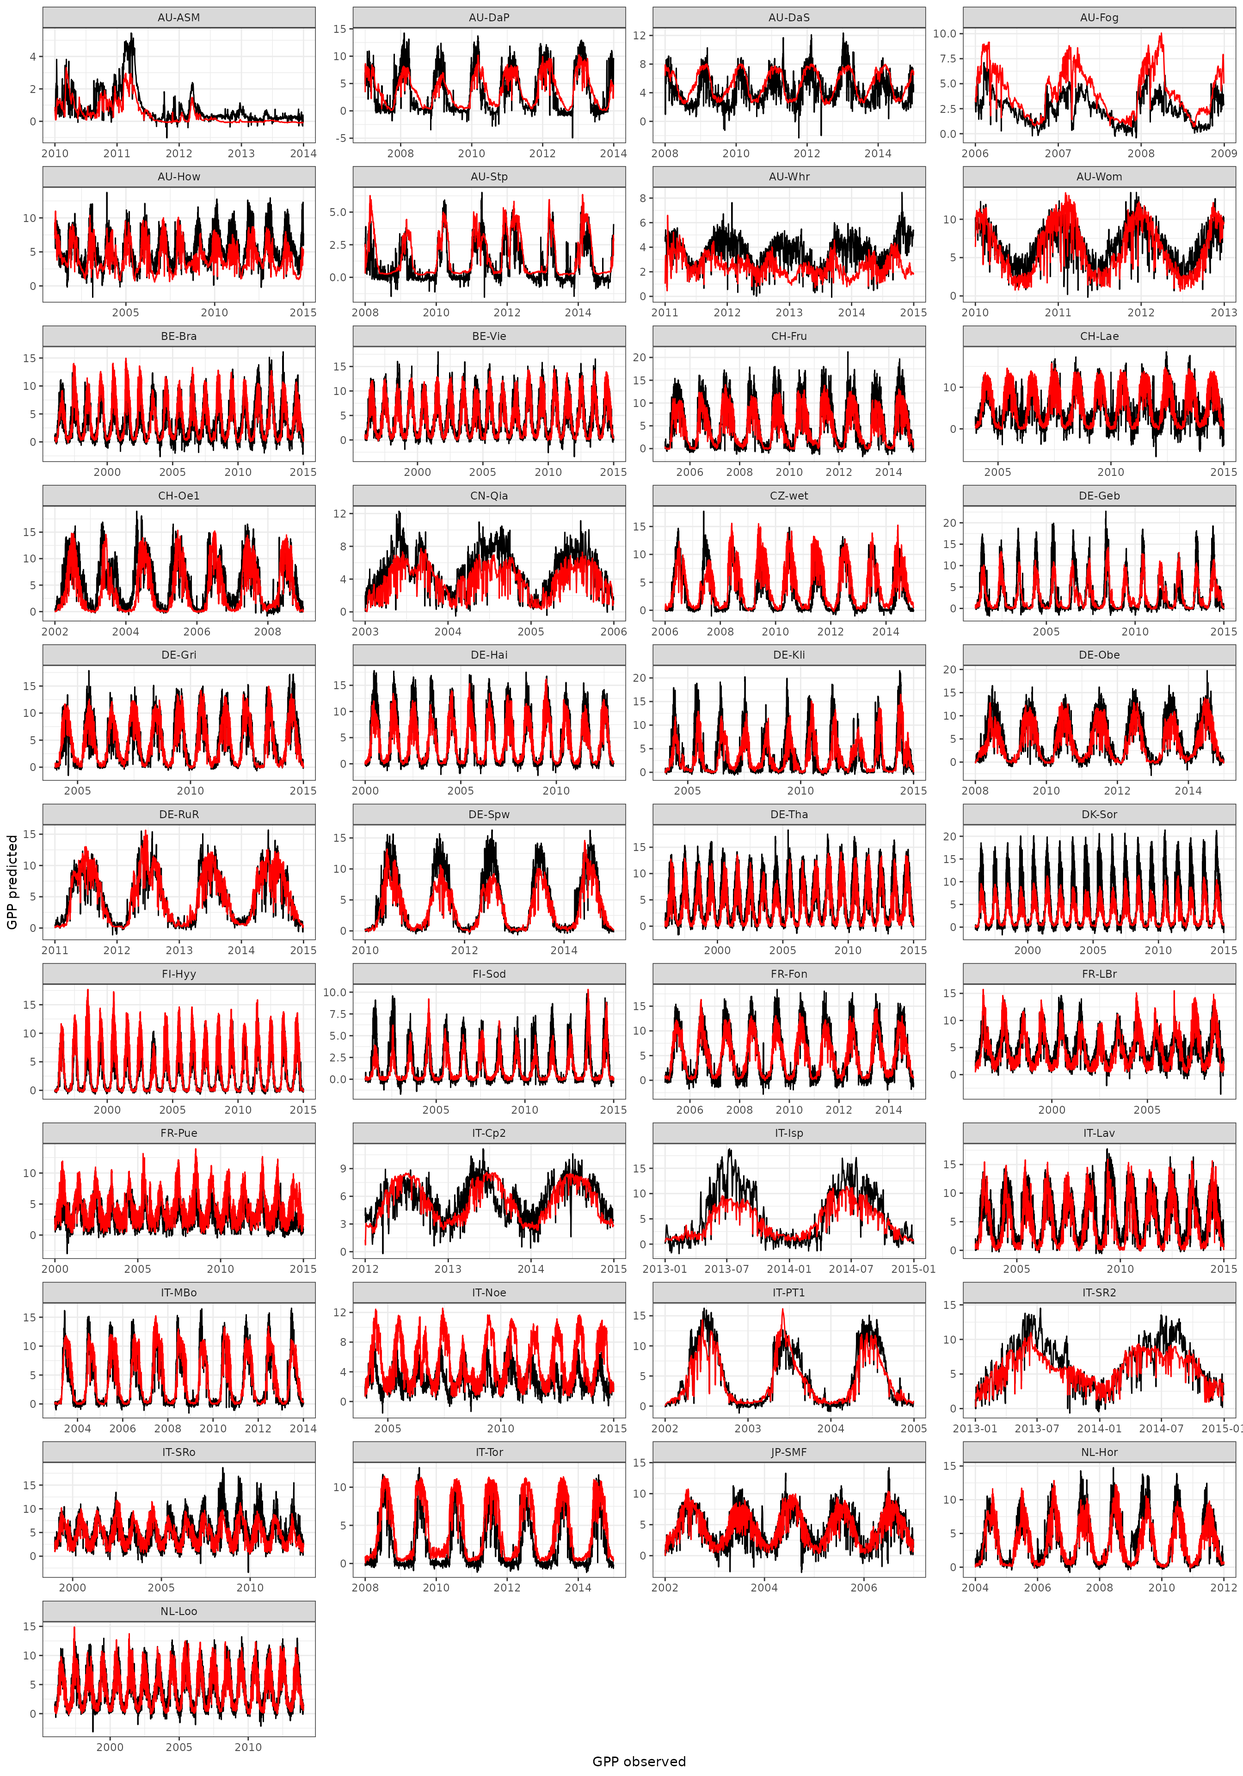
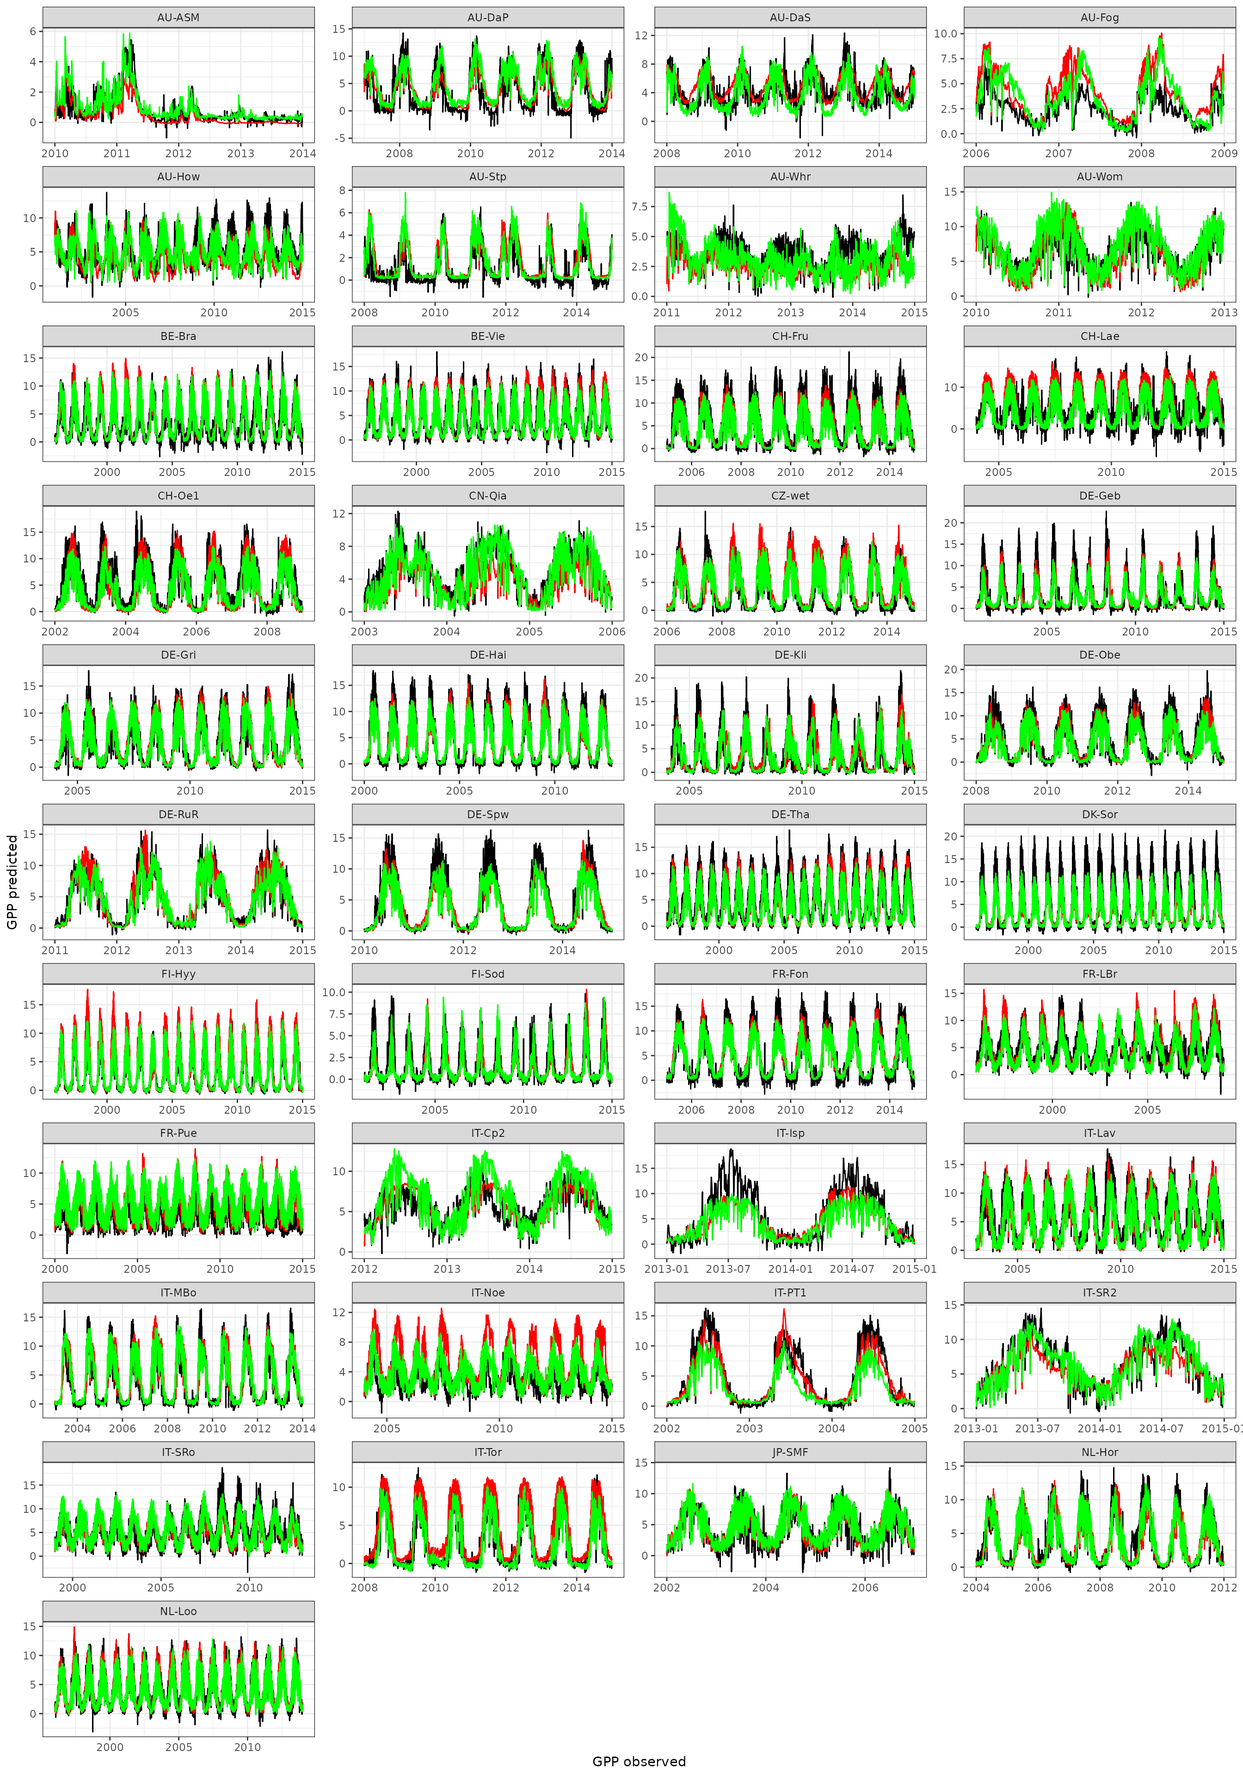
Deploying to gh-pages from @ khufkens/torching_series@43e23326abf91e43806db89b97041d2a5c9fe38a 🚀

diff --git a/articles/01_results.html b/articles/01_results.html
@@ -96,58 +96,79 @@ Hufkens</h4>
 
     
     
-<p>Summary results / stats… on a 20 epoch run…</p>
+<blockquote>
+<p>Summary results / stats… 20 epochs for the LSTM (to be updated), 150
+epochs FCN.</p>
+</blockquote>
 <div class="sourceCode" id="cb1"><pre class="downlit sourceCode r">
 <code class="sourceCode R"><span><span class="co"># read in the modelled data</span></span>
-<span><span class="va">df</span> <span class="op">&lt;-</span> <span class="fu"><a href="https://rdrr.io/r/base/readRDS.html" class="external-link">readRDS</a></span><span class="op">(</span><span class="fu">here</span><span class="fu">::</span><span class="fu"><a href="https://here.r-lib.org//reference/here.html" class="external-link">here</a></span><span class="op">(</span><span class="st">"data/leave_site_out_output.rds"</span><span class="op">)</span><span class="op">)</span></span>
+<span><span class="va">df_lstm</span> <span class="op">&lt;-</span> <span class="fu"><a href="https://rdrr.io/r/base/readRDS.html" class="external-link">readRDS</a></span><span class="op">(</span><span class="fu">here</span><span class="fu">::</span><span class="fu"><a href="https://here.r-lib.org//reference/here.html" class="external-link">here</a></span><span class="op">(</span><span class="st">"data/leave_site_out_output_lstm.rds"</span><span class="op">)</span><span class="op">)</span> <span class="op">|&gt;</span></span>
+<span>  <span class="fu">rename</span><span class="op">(</span></span>
+<span>    <span class="st">"GPP_pred_lstm"</span> <span class="op">=</span> <span class="st">"GPP_pred"</span></span>
+<span>  <span class="op">)</span></span>
+<span><span class="va">df_fcn</span> <span class="op">&lt;-</span> <span class="fu"><a href="https://rdrr.io/r/base/readRDS.html" class="external-link">readRDS</a></span><span class="op">(</span><span class="fu">here</span><span class="fu">::</span><span class="fu"><a href="https://here.r-lib.org//reference/here.html" class="external-link">here</a></span><span class="op">(</span><span class="st">"data/leave_site_out_output_fcn.rds"</span><span class="op">)</span><span class="op">)</span> <span class="op">|&gt;</span></span>
+<span>  <span class="fu">rename</span><span class="op">(</span></span>
+<span>    <span class="st">"GPP_pred_fcn"</span> <span class="op">=</span> <span class="st">"GPP_pred"</span></span>
+<span>  <span class="op">)</span></span>
 <span></span>
 <span><span class="co"># read in the original data</span></span>
 <span><span class="va">orig</span> <span class="op">&lt;-</span> <span class="fu"><a href="https://rdrr.io/r/base/readRDS.html" class="external-link">readRDS</a></span><span class="op">(</span><span class="fu">here</span><span class="fu">::</span><span class="fu"><a href="https://here.r-lib.org//reference/here.html" class="external-link">here</a></span><span class="op">(</span><span class="st">"data/df_imputed.rds"</span><span class="op">)</span><span class="op">)</span></span>
 <span></span>
 <span><span class="co"># join data</span></span>
-<span><span class="va">df</span> <span class="op">&lt;-</span> <span class="fu">left_join</span><span class="op">(</span><span class="va">df</span>, <span class="va">orig</span><span class="op">)</span> <span class="op">|&gt;</span></span>
+<span><span class="va">df</span> <span class="op">&lt;-</span> <span class="fu">left_join</span><span class="op">(</span><span class="va">df_lstm</span>, <span class="va">df_fcn</span><span class="op">)</span></span></code></pre></div>
+<pre><code><span><span class="co">## Joining with `by = join_by(sitename, date)`</span></span></code></pre>
+<div class="sourceCode" id="cb3"><pre class="downlit sourceCode r">
+<code class="sourceCode R"><span><span class="va">df</span> <span class="op">&lt;-</span> <span class="fu">left_join</span><span class="op">(</span><span class="va">df</span>, <span class="va">orig</span><span class="op">)</span> <span class="op">|&gt;</span></span>
 <span>  <span class="fu">mutate</span><span class="op">(</span></span>
 <span>    date <span class="op">=</span> <span class="fu"><a href="https://rdrr.io/r/base/as.Date.html" class="external-link">as.Date</a></span><span class="op">(</span><span class="va">date</span><span class="op">)</span></span>
 <span>  <span class="op">)</span></span></code></pre></div>
 <pre><code><span><span class="co">## Joining with `by = join_by(sitename, date)`</span></span></code></pre>
-<div class="sourceCode" id="cb3"><pre class="downlit sourceCode r">
+<div class="sourceCode" id="cb5"><pre class="downlit sourceCode r">
 <code class="sourceCode R"><span><span class="co"># R squared and RMSE global</span></span>
 <span><span class="va">statistics_global</span> <span class="op">&lt;-</span> <span class="va">df</span> <span class="op">|&gt;</span></span>
 <span>  <span class="fu">summarize</span><span class="op">(</span></span>
-<span>    R2 <span class="op">=</span> <span class="fu"><a href="https://rdrr.io/r/base/summary.html" class="external-link">summary</a></span><span class="op">(</span><span class="fu"><a href="https://rdrr.io/r/stats/lm.html" class="external-link">lm</a></span><span class="op">(</span><span class="va">GPP_pred</span> <span class="op">~</span> <span class="va">GPP_NT_VUT_REF</span><span class="op">)</span><span class="op">)</span><span class="op">$</span><span class="va">r.squared</span>,</span>
-<span>    RMSE <span class="op">=</span> <span class="fu"><a href="https://rdrr.io/r/base/MathFun.html" class="external-link">sqrt</a></span><span class="op">(</span><span class="fu"><a href="https://rdrr.io/r/base/mean.html" class="external-link">mean</a></span><span class="op">(</span><span class="op">(</span><span class="va">GPP_pred</span> <span class="op">-</span> <span class="va">GPP_NT_VUT_REF</span><span class="op">)</span><span class="op">^</span><span class="fl">2</span>, na.rm <span class="op">=</span> <span class="cn">TRUE</span><span class="op">)</span><span class="op">)</span>,</span>
-<span>    MAE <span class="op">=</span> <span class="fu"><a href="https://rdrr.io/r/base/MathFun.html" class="external-link">abs</a></span><span class="op">(</span><span class="fu"><a href="https://rdrr.io/r/base/mean.html" class="external-link">mean</a></span><span class="op">(</span><span class="op">(</span><span class="va">GPP_pred</span> <span class="op">-</span> <span class="va">GPP_NT_VUT_REF</span><span class="op">)</span>, na.rm <span class="op">=</span> <span class="cn">TRUE</span><span class="op">)</span><span class="op">)</span></span>
+<span>    R2_lstm <span class="op">=</span> <span class="fu"><a href="https://rdrr.io/r/base/summary.html" class="external-link">summary</a></span><span class="op">(</span><span class="fu"><a href="https://rdrr.io/r/stats/lm.html" class="external-link">lm</a></span><span class="op">(</span><span class="va">GPP_pred_lstm</span> <span class="op">~</span> <span class="va">GPP_NT_VUT_REF</span><span class="op">)</span><span class="op">)</span><span class="op">$</span><span class="va">r.squared</span>,</span>
+<span>    RMSE_lstm <span class="op">=</span> <span class="fu"><a href="https://rdrr.io/r/base/MathFun.html" class="external-link">sqrt</a></span><span class="op">(</span><span class="fu"><a href="https://rdrr.io/r/base/mean.html" class="external-link">mean</a></span><span class="op">(</span><span class="op">(</span><span class="va">GPP_pred_lstm</span> <span class="op">-</span> <span class="va">GPP_NT_VUT_REF</span><span class="op">)</span><span class="op">^</span><span class="fl">2</span>, na.rm <span class="op">=</span> <span class="cn">TRUE</span><span class="op">)</span><span class="op">)</span>,</span>
+<span>    MAE_lstm <span class="op">=</span> <span class="fu"><a href="https://rdrr.io/r/base/MathFun.html" class="external-link">abs</a></span><span class="op">(</span><span class="fu"><a href="https://rdrr.io/r/base/mean.html" class="external-link">mean</a></span><span class="op">(</span><span class="op">(</span><span class="va">GPP_pred_lstm</span> <span class="op">-</span> <span class="va">GPP_NT_VUT_REF</span><span class="op">)</span>, na.rm <span class="op">=</span> <span class="cn">TRUE</span><span class="op">)</span><span class="op">)</span>,</span>
+<span>    R2_fcn <span class="op">=</span> <span class="fu"><a href="https://rdrr.io/r/base/summary.html" class="external-link">summary</a></span><span class="op">(</span><span class="fu"><a href="https://rdrr.io/r/stats/lm.html" class="external-link">lm</a></span><span class="op">(</span><span class="va">GPP_pred_fcn</span> <span class="op">~</span> <span class="va">GPP_NT_VUT_REF</span><span class="op">)</span><span class="op">)</span><span class="op">$</span><span class="va">r.squared</span>,</span>
+<span>    RMSE_fcn <span class="op">=</span> <span class="fu"><a href="https://rdrr.io/r/base/MathFun.html" class="external-link">sqrt</a></span><span class="op">(</span><span class="fu"><a href="https://rdrr.io/r/base/mean.html" class="external-link">mean</a></span><span class="op">(</span><span class="op">(</span><span class="va">GPP_pred_fcn</span> <span class="op">-</span> <span class="va">GPP_NT_VUT_REF</span><span class="op">)</span><span class="op">^</span><span class="fl">2</span>, na.rm <span class="op">=</span> <span class="cn">TRUE</span><span class="op">)</span><span class="op">)</span>,</span>
+<span>    MAE_fcn <span class="op">=</span> <span class="fu"><a href="https://rdrr.io/r/base/MathFun.html" class="external-link">abs</a></span><span class="op">(</span><span class="fu"><a href="https://rdrr.io/r/base/mean.html" class="external-link">mean</a></span><span class="op">(</span><span class="op">(</span><span class="va">GPP_pred_fcn</span> <span class="op">-</span> <span class="va">GPP_NT_VUT_REF</span><span class="op">)</span>, na.rm <span class="op">=</span> <span class="cn">TRUE</span><span class="op">)</span><span class="op">)</span></span>
 <span>  <span class="op">)</span></span>
 <span></span>
 <span><span class="fu"><a href="https://rdrr.io/r/base/print.html" class="external-link">print</a></span><span class="op">(</span><span class="va">statistics_global</span><span class="op">)</span></span></code></pre></div>
-<pre><code><span><span class="co">##          R2     RMSE        MAE</span></span>
-<span><span class="co">## 1 0.7043553 2.183057 0.01363283</span></span></code></pre>
-<div class="sourceCode" id="cb5"><pre class="downlit sourceCode r">
+<pre><code><span><span class="co">##     R2_lstm RMSE_lstm   MAE_lstm    R2_fcn RMSE_fcn  MAE_fcn</span></span>
+<span><span class="co">## 1 0.7043553  2.183057 0.01363277 0.7396445 2.030596 0.173568</span></span></code></pre>
+<div class="sourceCode" id="cb7"><pre class="downlit sourceCode r">
 <code class="sourceCode R"><span><span class="co"># R squared and RMSE by site</span></span>
 <span><span class="va">statistics_sites</span> <span class="op">&lt;-</span> <span class="va">df</span> <span class="op">|&gt;</span></span>
 <span>  <span class="fu">group_by</span><span class="op">(</span><span class="va">sitename</span><span class="op">)</span> <span class="op">|&gt;</span></span>
 <span>  <span class="fu">summarize</span><span class="op">(</span></span>
-<span>    R2 <span class="op">=</span> <span class="fu"><a href="https://rdrr.io/r/base/summary.html" class="external-link">summary</a></span><span class="op">(</span><span class="fu"><a href="https://rdrr.io/r/stats/lm.html" class="external-link">lm</a></span><span class="op">(</span><span class="va">GPP_pred</span> <span class="op">~</span> <span class="va">GPP_NT_VUT_REF</span><span class="op">)</span><span class="op">)</span><span class="op">$</span><span class="va">r.squared</span>,</span>
-<span>    RMSE <span class="op">=</span> <span class="fu"><a href="https://rdrr.io/r/base/MathFun.html" class="external-link">sqrt</a></span><span class="op">(</span><span class="fu"><a href="https://rdrr.io/r/base/mean.html" class="external-link">mean</a></span><span class="op">(</span><span class="op">(</span><span class="va">GPP_pred</span> <span class="op">-</span> <span class="va">GPP_NT_VUT_REF</span><span class="op">)</span><span class="op">^</span><span class="fl">2</span>, na.rm <span class="op">=</span> <span class="cn">TRUE</span><span class="op">)</span><span class="op">)</span>,</span>
-<span>    MAE <span class="op">=</span> <span class="fu"><a href="https://rdrr.io/r/base/MathFun.html" class="external-link">abs</a></span><span class="op">(</span><span class="fu"><a href="https://rdrr.io/r/base/mean.html" class="external-link">mean</a></span><span class="op">(</span><span class="op">(</span><span class="va">GPP_pred</span> <span class="op">-</span> <span class="va">GPP_NT_VUT_REF</span><span class="op">)</span>, na.rm <span class="op">=</span> <span class="cn">TRUE</span><span class="op">)</span><span class="op">)</span></span>
+<span>    R2_lstm <span class="op">=</span> <span class="fu"><a href="https://rdrr.io/r/base/summary.html" class="external-link">summary</a></span><span class="op">(</span><span class="fu"><a href="https://rdrr.io/r/stats/lm.html" class="external-link">lm</a></span><span class="op">(</span><span class="va">GPP_pred_lstm</span> <span class="op">~</span> <span class="va">GPP_NT_VUT_REF</span><span class="op">)</span><span class="op">)</span><span class="op">$</span><span class="va">r.squared</span>,</span>
+<span>    RMSE_lstm <span class="op">=</span> <span class="fu"><a href="https://rdrr.io/r/base/MathFun.html" class="external-link">sqrt</a></span><span class="op">(</span><span class="fu"><a href="https://rdrr.io/r/base/mean.html" class="external-link">mean</a></span><span class="op">(</span><span class="op">(</span><span class="va">GPP_pred_lstm</span> <span class="op">-</span> <span class="va">GPP_NT_VUT_REF</span><span class="op">)</span><span class="op">^</span><span class="fl">2</span>, na.rm <span class="op">=</span> <span class="cn">TRUE</span><span class="op">)</span><span class="op">)</span>,</span>
+<span>    MAE_lstm <span class="op">=</span> <span class="fu"><a href="https://rdrr.io/r/base/MathFun.html" class="external-link">abs</a></span><span class="op">(</span><span class="fu"><a href="https://rdrr.io/r/base/mean.html" class="external-link">mean</a></span><span class="op">(</span><span class="op">(</span><span class="va">GPP_pred_lstm</span> <span class="op">-</span> <span class="va">GPP_NT_VUT_REF</span><span class="op">)</span>, na.rm <span class="op">=</span> <span class="cn">TRUE</span><span class="op">)</span><span class="op">)</span>,</span>
+<span>    R2_fcn <span class="op">=</span> <span class="fu"><a href="https://rdrr.io/r/base/summary.html" class="external-link">summary</a></span><span class="op">(</span><span class="fu"><a href="https://rdrr.io/r/stats/lm.html" class="external-link">lm</a></span><span class="op">(</span><span class="va">GPP_pred_fcn</span> <span class="op">~</span> <span class="va">GPP_NT_VUT_REF</span><span class="op">)</span><span class="op">)</span><span class="op">$</span><span class="va">r.squared</span>,</span>
+<span>    RMSE_fcn <span class="op">=</span> <span class="fu"><a href="https://rdrr.io/r/base/MathFun.html" class="external-link">sqrt</a></span><span class="op">(</span><span class="fu"><a href="https://rdrr.io/r/base/mean.html" class="external-link">mean</a></span><span class="op">(</span><span class="op">(</span><span class="va">GPP_pred_fcn</span> <span class="op">-</span> <span class="va">GPP_NT_VUT_REF</span><span class="op">)</span><span class="op">^</span><span class="fl">2</span>, na.rm <span class="op">=</span> <span class="cn">TRUE</span><span class="op">)</span><span class="op">)</span>,</span>
+<span>    MAE_fcn <span class="op">=</span> <span class="fu"><a href="https://rdrr.io/r/base/MathFun.html" class="external-link">abs</a></span><span class="op">(</span><span class="fu"><a href="https://rdrr.io/r/base/mean.html" class="external-link">mean</a></span><span class="op">(</span><span class="op">(</span><span class="va">GPP_pred_fcn</span> <span class="op">-</span> <span class="va">GPP_NT_VUT_REF</span><span class="op">)</span>, na.rm <span class="op">=</span> <span class="cn">TRUE</span><span class="op">)</span><span class="op">)</span></span>
 <span>  <span class="op">)</span></span>
 <span></span>
 <span><span class="fu"><a href="https://rdrr.io/r/base/print.html" class="external-link">print</a></span><span class="op">(</span><span class="va">statistics_sites</span><span class="op">)</span></span></code></pre></div>
-<pre><code><span><span class="co">## <span style="color: #949494;"># A tibble: 41 × 4</span></span></span>
-<span><span class="co">##    sitename    R2  RMSE    MAE</span></span>
-<span><span class="co">##    <span style="color: #949494; font-style: italic;">&lt;chr&gt;</span>    <span style="color: #949494; font-style: italic;">&lt;dbl&gt;</span> <span style="color: #949494; font-style: italic;">&lt;dbl&gt;</span>  <span style="color: #949494; font-style: italic;">&lt;dbl&gt;</span></span></span>
-<span><span class="co">## <span style="color: #BCBCBC;"> 1</span> AU-ASM   0.691 0.720 0.376 </span></span>
-<span><span class="co">## <span style="color: #BCBCBC;"> 2</span> AU-DaP   0.692 2.26  0.346 </span></span>
-<span><span class="co">## <span style="color: #BCBCBC;"> 3</span> AU-DaS   0.412 1.87  0.834 </span></span>
-<span><span class="co">## <span style="color: #BCBCBC;"> 4</span> AU-Fog   0.678 2.20  1.70  </span></span>
-<span><span class="co">## <span style="color: #BCBCBC;"> 5</span> AU-How   0.552 1.98  1.09  </span></span>
-<span><span class="co">## <span style="color: #BCBCBC;"> 6</span> AU-Stp   0.648 1.11  0.543 </span></span>
-<span><span class="co">## <span style="color: #BCBCBC;"> 7</span> AU-Whr   0.135 1.65  1.14  </span></span>
-<span><span class="co">## <span style="color: #BCBCBC;"> 8</span> AU-Wom   0.690 1.88  0.185 </span></span>
-<span><span class="co">## <span style="color: #BCBCBC;"> 9</span> BE-Bra   0.771 1.80  0.358 </span></span>
-<span><span class="co">## <span style="color: #BCBCBC;">10</span> BE-Vie   0.889 1.35  0.023<span style="text-decoration: underline;">5</span></span></span>
+<pre><code><span><span class="co">## <span style="color: #949494;"># A tibble: 41 × 7</span></span></span>
+<span><span class="co">##    sitename R2_lstm RMSE_lstm MAE_lstm R2_fcn RMSE_fcn MAE_fcn</span></span>
+<span><span class="co">##    <span style="color: #949494; font-style: italic;">&lt;chr&gt;</span>      <span style="color: #949494; font-style: italic;">&lt;dbl&gt;</span>     <span style="color: #949494; font-style: italic;">&lt;dbl&gt;</span>    <span style="color: #949494; font-style: italic;">&lt;dbl&gt;</span>  <span style="color: #949494; font-style: italic;">&lt;dbl&gt;</span>    <span style="color: #949494; font-style: italic;">&lt;dbl&gt;</span>   <span style="color: #949494; font-style: italic;">&lt;dbl&gt;</span></span></span>
+<span><span class="co">## <span style="color: #BCBCBC;"> 1</span> AU-ASM     0.691     0.720   0.376   0.654    0.649   0.125</span></span>
+<span><span class="co">## <span style="color: #BCBCBC;"> 2</span> AU-DaP     0.692     2.26    0.346   0.704    2.45    1.18 </span></span>
+<span><span class="co">## <span style="color: #BCBCBC;"> 3</span> AU-DaS     0.412     1.87    0.834   0.495    1.75    0.582</span></span>
+<span><span class="co">## <span style="color: #BCBCBC;"> 4</span> AU-Fog     0.678     2.20    1.70    0.611    1.81    1.13 </span></span>
+<span><span class="co">## <span style="color: #BCBCBC;"> 5</span> AU-How     0.552     1.98    1.09    0.442    1.87    0.286</span></span>
+<span><span class="co">## <span style="color: #BCBCBC;"> 6</span> AU-Stp     0.648     1.11    0.543   0.603    1.13    0.372</span></span>
+<span><span class="co">## <span style="color: #BCBCBC;"> 7</span> AU-Whr     0.135     1.65    1.14    0.149    1.49    0.449</span></span>
+<span><span class="co">## <span style="color: #BCBCBC;"> 8</span> AU-Wom     0.690     1.88    0.185   0.804    1.66    0.767</span></span>
+<span><span class="co">## <span style="color: #BCBCBC;"> 9</span> BE-Bra     0.771     1.80    0.358   0.776    1.64    0.109</span></span>
+<span><span class="co">## <span style="color: #BCBCBC;">10</span> BE-Vie     0.889     1.35    0.023<span style="text-decoration: underline;">5</span>  0.854    1.62    0.604</span></span>
 <span><span class="co">## <span style="color: #949494;"># ℹ 31 more rows</span></span></span></code></pre>
-<p><img src="01_results_files/figure-html/unnamed-chunk-3-1.png" width="1344"></p>
+<pre><code><span><span class="co">## `summarise()` has grouped output by 'doy'. You can override using the `.groups`</span></span>
+<span><span class="co">## argument.</span></span></code></pre>
+<p><img src="01_results_files/figure-html/unnamed-chunk-3-1.png" width="700"></p>
 <p><img src="01_results_files/figure-html/unnamed-chunk-4-1.png" width="1344"></p>
   </div>
 
